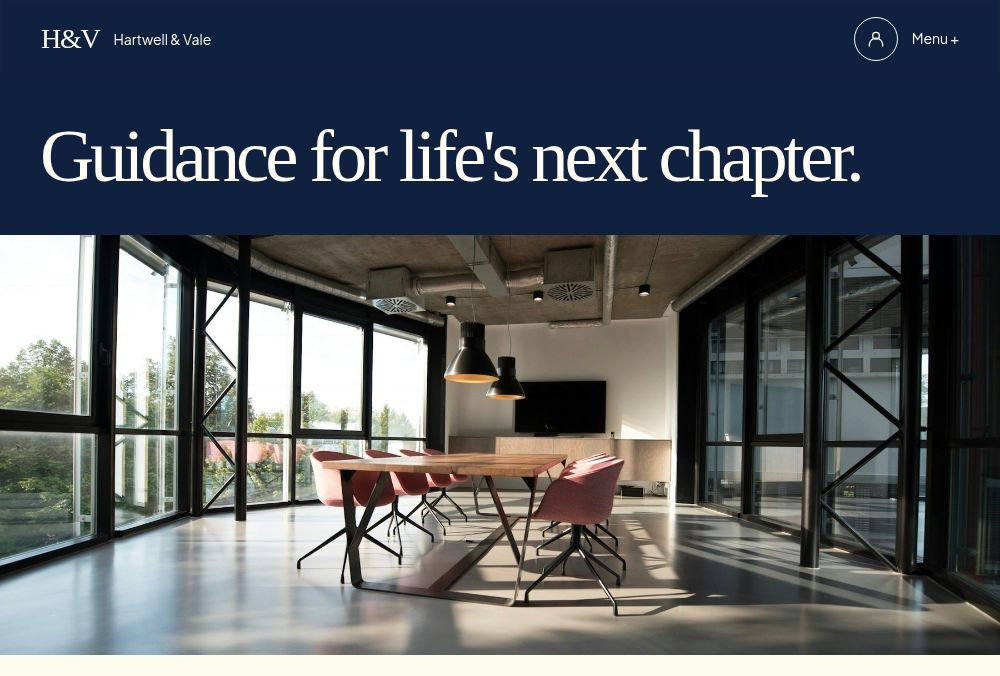
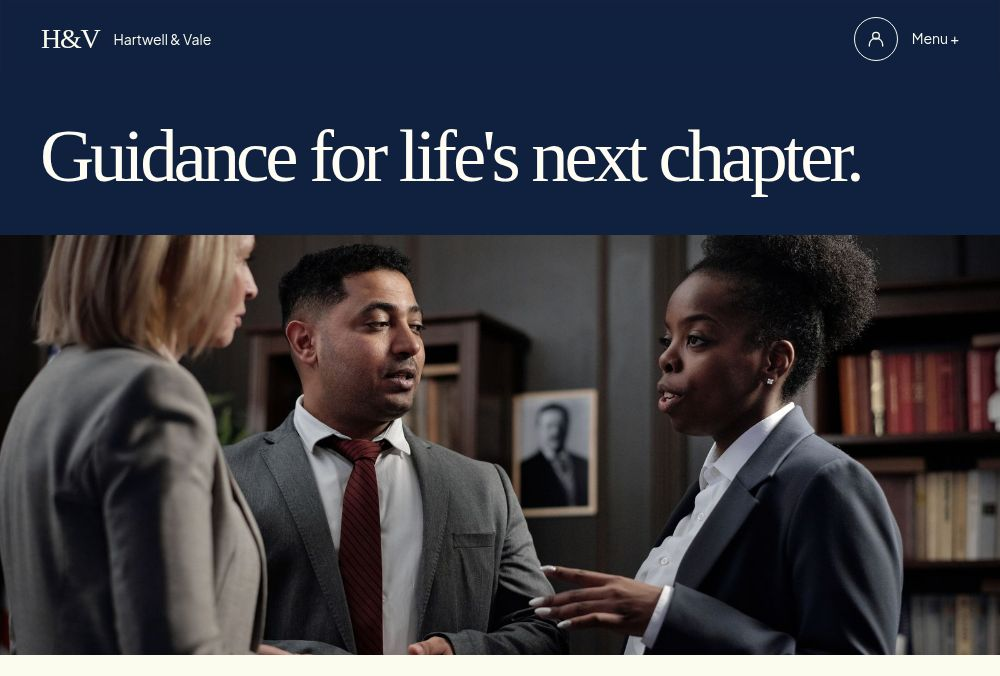
Use Pexels corporate professionals for family-law hero

diff --git a/components/templates/LegalWebsite.tsx b/components/templates/LegalWebsite.tsx
@@ -254,7 +254,9 @@ export function LegalWebsite({
             <section className={styles.hero} id="home">
               {photo(
                 doc.heroImage,
-                "A considered workspace for professional conversations",
+                doc.legalVariant === "family"
+                  ? "Three professionals in corporate attire discussing a matter in an office"
+                  : "A considered workspace for professional conversations",
                 true,
               )}
               <h1>{doc.headline}</h1>
@@ -305,7 +307,9 @@ export function LegalWebsite({
               <div className={styles.newsBackdrop}>
                 {photo(
                   doc.heroImage,
-                  "Light and space in a professional office",
+                  doc.legalVariant === "family"
+                    ? "Professionals in suits in conversation"
+                    : "Light and space in a professional office",
                 )}
                 {insights()}
               </div>

diff --git a/lib/website-templates.ts b/lib/website-templates.ts
@@ -2343,6 +2343,7 @@ websiteTemplates.push({
 const familyDocument = JSON.parse(JSON.stringify(legalDocument)) as WebsiteDocument;
 Object.assign(familyDocument, {
   legalVariant: "family",
+  heroImage: "/template-photos/legal/family-hero.jpg",
   brandName: "Hartwell & Vale",
   eyebrow: "FAMILY LAW. A THOUGHTFUL WAY FORWARD.",
   headline: "Guidance for life's next chapter.",

diff --git a/docs/FAMILY_LAW_PHOTOGRAPHY.md b/docs/FAMILY_LAW_PHOTOGRAPHY.md
@@ -1,0 +1,10 @@
+# Family-law hero photography
+
+The family-law template uses a locally bundled Pexels photo of three professionals in corporate attire. The sample firm does not claim these models are its actual team.
+
+- Source: https://www.pexels.com/photo/4427611/
+- Asset: https://images.pexels.com/photos/4427611/pexels-photo-4427611.jpeg
+- Local file: `public/template-photos/legal/family-hero.jpg` (1600px version)
+- License: https://www.pexels.com/license/
+
+The Main and Business catalogs share the same image. The gallery thumbnail is captured from the rendered template. Existing saved customer documents retain their chosen photos.
